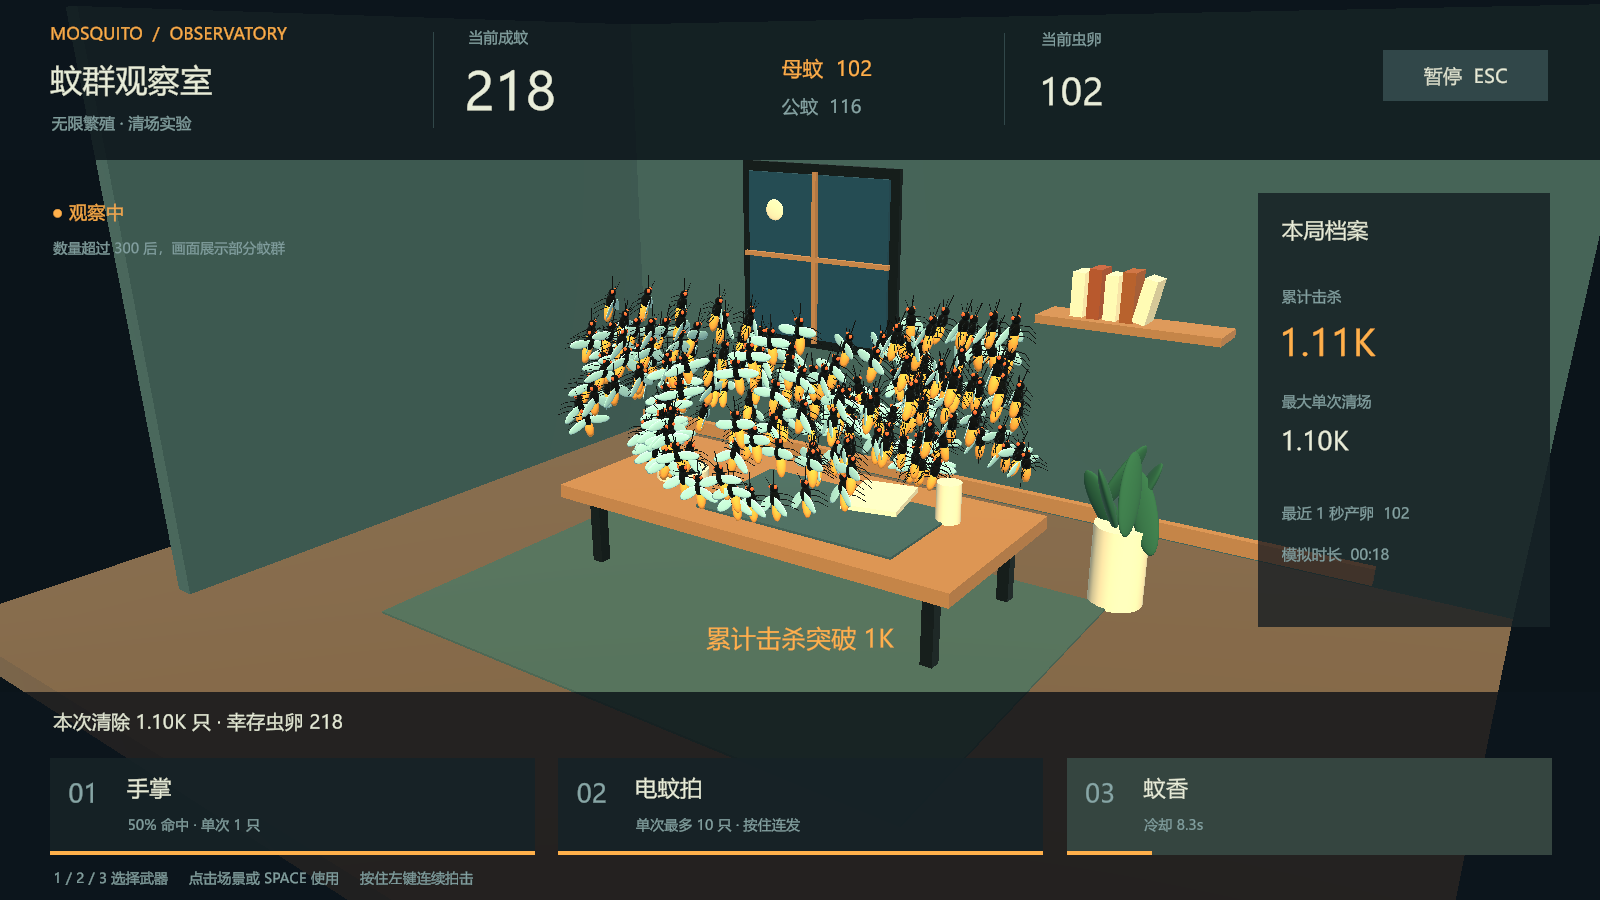
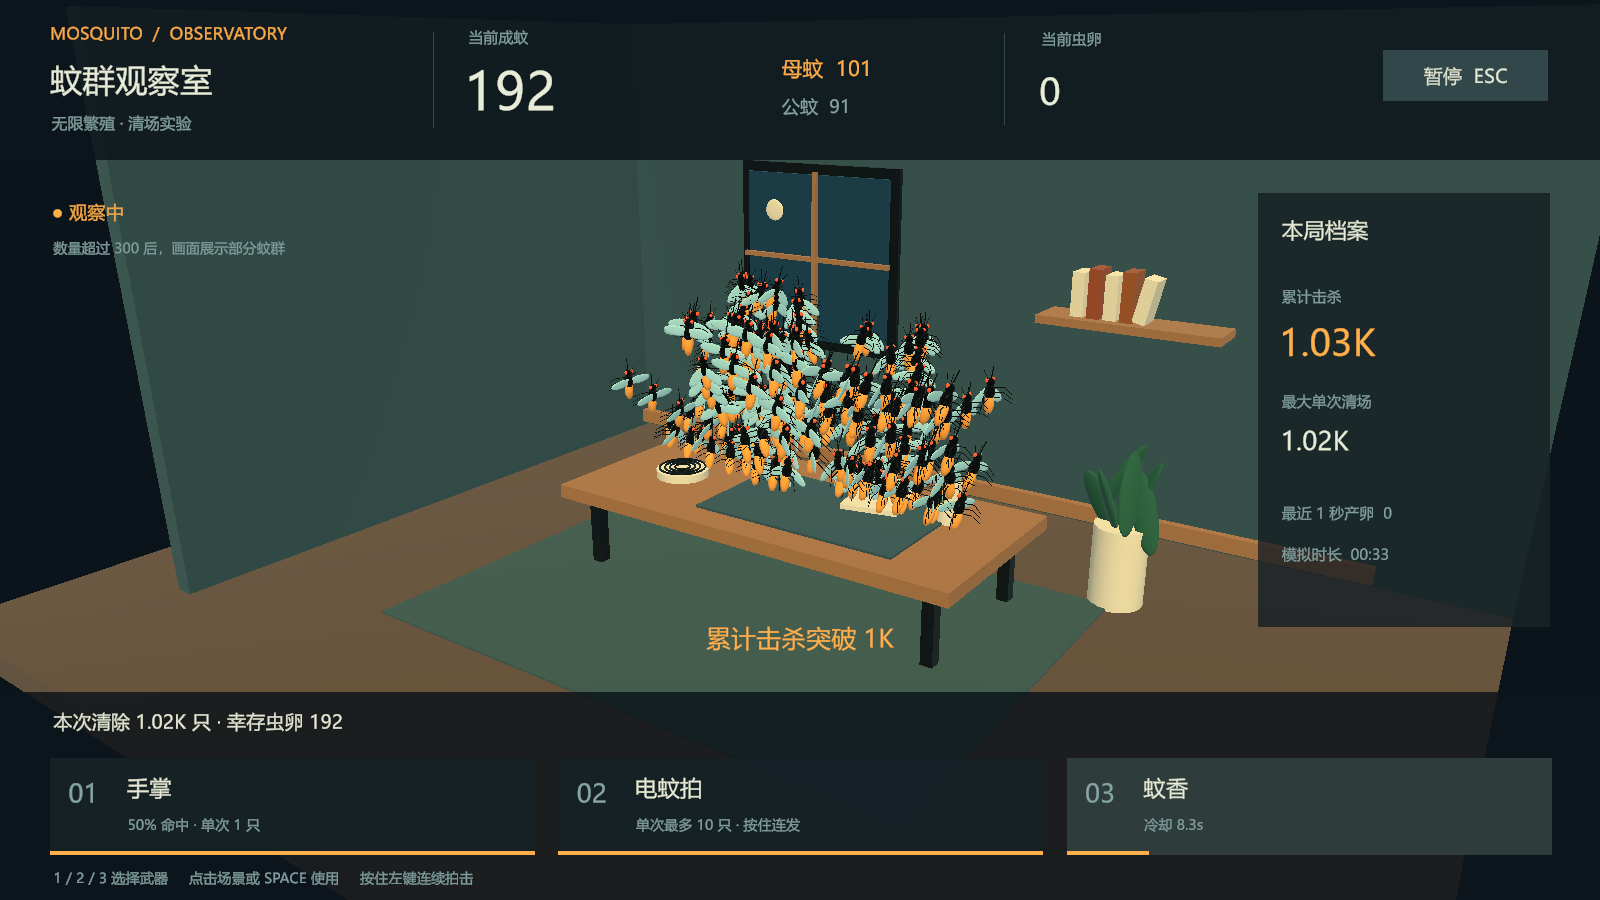
fix: slow mosquito reproduction and migrate saved timing

diff --git a/Assets/Game/Tests/EditMode/SimulationTests.cs b/Assets/Game/Tests/EditMode/SimulationTests.cs
@@ -26,15 +26,55 @@ namespace Mosquito.Tests
             return Simulation.Restore(snapshot);
         }
 
-        [Test] public void InitialMothersLayAtOneSecond_ThenEggsHatchAtOneAndHalf()
+        [Test] public void InitialMothersLayAtTwoSeconds_ThenEggsHatchAtThree()
         {
-            var game = new Simulation(seed: 7); Advance(game, 19);
+            var game = new Simulation(seed: 7); Advance(game, 39);
             Assert.That(game.Eggs, Is.EqualTo(BigInteger.Zero)); game.Step();
             Assert.That(game.Adults, Is.EqualTo(new BigInteger(4))); Assert.That(game.Eggs, Is.EqualTo(new BigInteger(2)));
-            Assert.That(game.EggBuckets.Keys.Single(), Is.EqualTo(30)); Advance(game, 10);
+            Assert.That(game.EggBuckets.Keys.Single(), Is.EqualTo(60)); Advance(game, 19);
+            Assert.That(game.Adults, Is.EqualTo(new BigInteger(4))); game.Step();
             Assert.That(game.Adults, Is.EqualTo(new BigInteger(6))); Assert.That(game.TotalHatched, Is.EqualTo(new BigInteger(2)));
-            Assert.That(game.FemaleBuckets.Keys.All(k => k == 40 || k == 50), Is.True);
+            Assert.That(game.FemaleBuckets.Keys.All(k => k == 80 || k == 100), Is.True);
         }
+        private static SimulationConfig LegacyConfig() => new SimulationConfig {
+            initialLayTicks = 20, layIntervalTicks = 20, firstLayTicks = 20, hatchTicks = 10, burstTicks = 10
+        };
+
+        [Test] public void SlowerGrowthMatchesOldPopulationAtTwiceTheElapsedTime()
+        {
+            var legacy = new Simulation(LegacyConfig(), seed: 73);
+            var slower = new Simulation(seed: 73);
+            Advance(legacy, 420); Advance(slower, 420);
+            Assert.That(slower.Adults, Is.LessThan(legacy.Adults));
+            Advance(slower, 420);
+            Assert.That(slower.Adults, Is.EqualTo(legacy.Adults));
+            Assert.That(slower.Eggs, Is.EqualTo(legacy.Eggs));
+        }
+
+        [TestCase(false)] [TestCase(true)]
+        public void LegacySaveMigrationPreservesPopulationRngAndCooldowns(bool duringRebound)
+        {
+            var original = new Simulation(LegacyConfig(), seed: 73); Advance(original, 420);
+            original.Step(duringRebound ? Weapon.Incense : Weapon.Hand);
+            var before = original.Capture();
+            var restored = Simulation.Restore(before);
+            Assert.That(restored.UpgradeReproductionPacing(), Is.True);
+            var after = restored.Capture();
+            Assert.That(after.male, Is.EqualTo(before.male));
+            Assert.That(after.randomState, Is.EqualTo(before.randomState));
+            Assert.That(after.readyAt, Is.EqualTo(before.readyAt));
+            Assert.That(after.totalKilled, Is.EqualTo(before.totalKilled));
+            Assert.That(after.females.Select(b => b.count), Is.EqualTo(before.females.Select(b => b.count)));
+            Assert.That(after.eggs.Select(b => b.count), Is.EqualTo(before.eggs.Select(b => b.count)));
+            Assert.That(after.females.Select(b => b.dueTick), Is.EqualTo(before.females.Select(b => before.tick + (b.dueTick - before.tick) * 2)));
+            Assert.That(after.eggs.Select(b => b.dueTick), Is.EqualTo(before.eggs.Select(b => before.tick + (b.dueTick - before.tick) * 2)));
+            if (duringRebound) Assert.That(after.burstEndTick, Is.EqualTo(before.tick + (before.burstEndTick - before.tick) * 2));
+            Assert.That(restored.UpgradeReproductionPacing(), Is.False);
+            Assert.That(JsonUtility.ToJson(restored.Capture()), Is.EqualTo(JsonUtility.ToJson(after)));
+            var roundTrip = Simulation.Restore(after); Advance(restored, 200); Advance(roundTrip, 200);
+            Assert.That(JsonUtility.ToJson(roundTrip.Capture()), Is.EqualTo(JsonUtility.ToJson(restored.Capture())));
+        }
+
         [Test] public void AttackBeforeDueLayCancelsMotherButPreservesExistingEggs()
         {
             var game = Fixture(0, 1, 3, eggDelay: 10, layDelay: 1); var before = game.EggsCreated;
@@ -71,7 +111,7 @@ namespace Mosquito.Tests
             Assert.That(game.EggBuckets.Keys.Single(), Is.EqualTo(due)); Assert.That(game.FemaleBuckets, Is.Empty);
             Assert.That(game.RemainingCooldown(Weapon.Incense), Is.EqualTo(200)); Advance(game, 5);
             Assert.That(game.Adults, Is.EqualTo(new BigInteger(30))); Assert.That(game.BurstHatched, Is.EqualTo(new BigInteger(30)));
-            Advance(game, 5); Assert.That(game.Phase, Is.EqualTo(RunPhase.Running));
+            Advance(game, 15); Assert.That(game.Phase, Is.EqualTo(RunPhase.Running));
         }
         [Test] public void SameTickIncenseDoesNotKillNewborns()
         {
@@ -101,7 +141,7 @@ namespace Mosquito.Tests
         }
         [Test] public void UnlocksPersistAfterPopulationFallsButResetOnNewRun()
         {
-            var game = new Simulation(seed: 73); Advance(game, 420);
+            var game = new Simulation(seed: 73); Advance(game, 840);
             Assert.That(game.IsUnlocked(Weapon.Incense), Is.True); game.Step(Weapon.Incense);
             Assert.That(game.IsUnlocked(Weapon.Incense), Is.True); Assert.That(new Simulation().UnlockFlags, Is.Zero);
         }
@@ -143,7 +183,7 @@ namespace Mosquito.Tests
             for (int i = 0; i < 6000 && game.Phase != RunPhase.ReproductionEnded; i++)
             {
                 game.Step(i % 221 == 0 ? Weapon.Incense : i % 17 == 0 ? Weapon.Zapper : (Weapon?)null); game.Validate();
-                Assert.That(game.FemaleBuckets.Count, Is.LessThanOrEqualTo(20)); Assert.That(game.EggBuckets.Count, Is.LessThanOrEqualTo(10));
+                Assert.That(game.FemaleBuckets.Count, Is.LessThanOrEqualTo(game.Config.layIntervalTicks)); Assert.That(game.EggBuckets.Count, Is.LessThanOrEqualTo(game.Config.hatchTicks));
             }
         }
         [Test] public void InvalidConservationAndExpiredBucketsAreRejected()

diff --git a/Assets/Game/Scripts/Core/Simulation.cs b/Assets/Game/Scripts/Core/Simulation.cs
@@ -69,6 +69,22 @@ namespace Mosquito.Core
             for (int i = 0; i < 20; i++) recentLays.Enqueue(BigInteger.Zero);
         }
 
+        public bool UpgradeReproductionPacing()
+        {
+            if (Config.layIntervalTicks != 20) return false;
+            // Preserve progress through each pending interval; do not hatch or lay on migration.
+            var mothers = females.Select(p => new KeyValuePair<long, BigInteger>(checked(Tick + (p.Key - Tick) * 2), p.Value)).ToArray();
+            var pendingEggs = eggs.Select(p => new KeyValuePair<long, BigInteger>(checked(Tick + (p.Key - Tick) * 2), p.Value)).ToArray();
+            long burstEnd = Phase == RunPhase.HatchAfterClear ? checked(Tick + (BurstEndTick - Tick) * 2) : BurstEndTick;
+            females.Clear(); foreach (var bucket in mothers) females.Add(bucket.Key, bucket.Value);
+            eggs.Clear(); foreach (var bucket in pendingEggs) eggs.Add(bucket.Key, bucket.Value);
+            Config.initialLayTicks = Config.layIntervalTicks = Config.firstLayTicks = 40;
+            Config.hatchTicks = Config.burstTicks = 20;
+            BurstEndTick = burstEnd;
+            Validate();
+            return true;
+        }
+
         public bool IsUnlocked(Weapon weapon) => (UnlockFlags & (1 << (int)weapon)) != 0;
         public long RemainingCooldown(Weapon weapon) => Math.Max(0, readyAt[(int)weapon] - Tick);
         public bool CanUse(Weapon weapon) => Phase != RunPhase.ReproductionEnded && Adults > 0 &&
@@ -205,8 +221,8 @@ namespace Mosquito.Core
                 Female != 2 + FemaleBorn - FemaleKilled ||
                 Male != 2 + (TotalHatched - FemaleBorn) - (TotalKilled - FemaleKilled))
                 throw new InvalidOperationException("Population conservation failed.");
-            foreach (var b in females) if (b.Key <= Tick || b.Key > Tick + 20 || b.Value <= 0) throw new InvalidOperationException("Invalid female deadline.");
-            foreach (var b in eggs) if (b.Key <= Tick || b.Key > Tick + 10 || b.Value <= 0) throw new InvalidOperationException("Invalid egg deadline.");
+            foreach (var b in females) if (b.Key <= Tick || b.Key > Tick + Config.layIntervalTicks || b.Value <= 0) throw new InvalidOperationException("Invalid female deadline.");
+            foreach (var b in eggs) if (b.Key <= Tick || b.Key > Tick + Config.hatchTicks || b.Value <= 0) throw new InvalidOperationException("Invalid egg deadline.");
             if (!Enum.IsDefined(typeof(RunPhase), Phase) || Tick < 0 || eventSequence < 0 ||
                 (Phase == RunPhase.ReproductionEnded) != (Female == 0 && Eggs == 0) ||
                 HandAttempts < 0 || HandHits < 0 || HandHits > HandAttempts || ZapperUses < 0 || IncenseUses < 0 ||
@@ -244,7 +260,7 @@ namespace Mosquito.Core
         {
             if (saved == null || saved.simulationVersion != 1 || saved.config == null ||
                 saved.readyAt == null || saved.readyAt.Length != 3 || saved.recentLays == null || saved.recentLays.Length != 20 ||
-                saved.females == null || saved.eggs == null || string.IsNullOrEmpty(saved.runId) || saved.females.Count > 20 || saved.eggs.Count > 10)
+                saved.females == null || saved.eggs == null || string.IsNullOrEmpty(saved.runId) || saved.females.Count > saved.config.layIntervalTicks || saved.eggs.Count > saved.config.hatchTicks)
                 throw new ArgumentException("Unsupported or incomplete save.");
             var game = new Simulation(saved.config, ulong.Parse(saved.initialSeed, NumberStyles.HexNumber));
             ulong rng = ulong.Parse(saved.randomState, NumberStyles.HexNumber);

diff --git a/Assets/Game/Scripts/Runtime/GameController.cs b/Assets/Game/Scripts/Runtime/GameController.cs
@@ -128,7 +128,7 @@ namespace Mosquito.Runtime
             Game = new Simulation(settings == null ? null : settings.simulation, unchecked((ulong)DateTime.UtcNow.Ticks));
             Selected = Weapon.Hand; PendingTicks = 0; remainder = 0; lastMilestone = 0;
             InMenu = Paused = Recovering = SettingsOpen = false; queuedCommand = null; holdArmed = false;
-            room.ResetVisuals(); Status = "母蚊每秒产卵，虫卵半秒后孵化。"; lastRealTime = Time.realtimeSinceStartupAsDouble;
+            room.ResetVisuals(); Status = "母蚊每 2 秒产卵，虫卵 1 秒后孵化。"; lastRealTime = Time.realtimeSinceStartupAsDouble;
             Save();
         }
         public void ContinueRun()
@@ -136,11 +136,14 @@ namespace Mosquito.Runtime
             if (!CanContinue) return;
             try
             {
-                Game = Simulation.Restore(Profile.run); PendingTicks = Profile.pendingCatchupTicks;
+                Game = Simulation.Restore(Profile.run);
+                bool pacingUpdated = Game.UpgradeReproductionPacing();
+                PendingTicks = Profile.pendingCatchupTicks;
                 Selected = (Weapon)Profile.selectedWeapon; remainder = 0;
                 InMenu = Paused = SettingsOpen = false; Recovering = PendingTicks > 0;
                 holdArmed = false; queuedCommand = null; room.ResetVisuals();
                 Status = Recovering ? "正在恢复已积欠的进度…" : "已恢复存档；离线期间没有繁殖。";
+                if (pacingUpdated) { Status += " 繁殖速度已调慢。"; Save(); }
             }
             catch (Exception e) { Status = "无法恢复此存档：" + e.Message; }
         }

diff --git a/Assets/Game/Scripts/Core/SimulationConfig.cs b/Assets/Game/Scripts/Core/SimulationConfig.cs
@@ -11,8 +11,8 @@ namespace Mosquito.Core
     {
         public int tickMs = 50;
         public int startMale = 2, startFemale = 2;
-        public int initialLayTicks = 20, layIntervalTicks = 20, firstLayTicks = 20;
-        public int hatchTicks = 10, burstTicks = 10, smallBatchLimit = 1024;
+        public int initialLayTicks = 40, layIntervalTicks = 40, firstLayTicks = 40;
+        public int hatchTicks = 20, burstTicks = 20, smallBatchLimit = 1024;
         public int handUnlock = 10, zapperUnlock = 100, incenseUnlock = 1000;
         public int handCooldown = 6, zapperCooldown = 16, incenseCooldown = 200;
         public int zapperKills = 10;
@@ -23,9 +23,10 @@ namespace Mosquito.Core
 
         public void Validate()
         {
+            bool legacyPacing = initialLayTicks == 20 && layIntervalTicks == 20 && firstLayTicks == 20 && hatchTicks == 10 && burstTicks == 10;
+            bool currentPacing = initialLayTicks == 40 && layIntervalTicks == 40 && firstLayTicks == 40 && hatchTicks == 20 && burstTicks == 20;
             if (tickMs != 50 || startMale != 2 || startFemale != 2 ||
-                initialLayTicks != 20 || layIntervalTicks != 20 || firstLayTicks != 20 ||
-                hatchTicks != 10 || burstTicks != 10 || smallBatchLimit != 1024 ||
+                !(legacyPacing || currentPacing) || smallBatchLimit != 1024 ||
                 handUnlock != 10 || zapperUnlock <= handUnlock || incenseUnlock <= zapperUnlock ||
                 handCooldown < 1 || zapperCooldown < 1 || incenseCooldown < 1 || zapperKills != 10)
                 throw new ArgumentException("Configuration is incompatible with simulation version 1.");

diff --git a/Docs/DevelopmentStatus.md b/Docs/DevelopmentStatus.md
@@ -1,4 +1,4 @@
-# 开发进度 · 0.1.0 原型
+# 开发进度 · 0.1.1 原型
 
 日期：2026-09-20。基于 GDD v1.1，当前推进 M0–M2，并提前接入部分存档和设置能力。
 
@@ -6,7 +6,7 @@
 
 - Unity 6.3 LTS 工程、URP、Input System、固定镜头场景及命令行构建入口。
 - 50ms 固定 Tick；母蚊与虫卵分别使用排序时间桶；成蚊、虫卵和统计使用 BigInteger。
-- 初始四只、1 秒产卵、半秒孵化、出生满 1 秒首产、小批量随机 / 大批量各半性别分配。
+- 初始四只、2 秒产卵、1 秒孵化、出生满 2 秒首产、小批量随机 / 大批量各半性别分配。按试玩反馈将繁殖周期延长一倍；旧存档继续时迁移剩余时间，不改变现有数量和武器冷却。
 - 手掌、电拍和蚊香；独立冷却、本局峰值解锁、全局均匀击杀。
 - 清场保留虫卵 deadline，同 Tick 先攻击后产卵和孵化，繁殖终止结算。
 - 主菜单、HUD、武器选择、按住攻击、暂停、失焦处理、设置与本地纪录。
@@ -17,11 +17,12 @@
 ## 已取得的验证结果
 
 - Unity 工程初始化与 C# 编译成功。
-- EditMode 自动测试 **28 / 28 通过**，包含 10^300 数量精度、孵化时序、随机恢复和损坏存档备份。
+- EditMode 自动测试 **31 / 31 通过**，包含 10^300 数量精度、孵化时序、随机恢复和损坏存档备份，以及减速后的增长曲线、普通旧存档和清场回弹中存档的迁移。
 - 原始测试报告保存在本地 `TestResults/editmode.xml`，详细日志在 `Logs/tests.log`。
 - Windows x64 独立程序构建成功，构建日志和摘要位于 `Logs/Build.log`、`TestResults/build-summary.txt`。
 - Windows 实际运行验证通过：自然增长解锁三把武器，分别执行手掌、电拍、蚊香；暂停期间 Tick 不变；保存与恢复快照一致。
[1 lines of base64/hex data omitted]
+- 0.1.1 减速版本已重新构建并通过上述实际运行验证，已生成 `MosquitoObservatory-Setup-0.1.1-Windows-x64.exe`；沿用已验证的安装流程，此次未重复执行安装卸载测试。
[1 lines of base64/hex data omitted]
 - 实际运行记录：[runtime-smoke.json](./Preview/runtime-smoke.json)。该验证通过正常命令入口执行攻击，不等同于已经测试所有物理键鼠组合。
 - 已检查 [实际游戏画面](./Preview/gameplay.png)：中文 HUD、固定镜头房间、Blender 蚊子模型与三个武器状态均可显示。隐藏窗口采用显式 URP 渲染目标捕获，避免读取空白交换链。
 - 当前机器上的一次 Tick 耗时只是运行记录，不作为 GDD 规定的 P95、60 FPS 或 30 分钟稳定性结论。

diff --git a/README.md b/README.md
@@ -4,6 +4,8 @@
 
 当前开发基于 [GDD v1.1](./蚊子游戏模拟器_游戏策划文档_GDD_v1.1_PC_Unity_Blender.md)。这是正在开发的原型，不代表 GDD 全部美术、性能和试玩目标已经验收。
 
+0.1.1 根据试玩反馈将繁殖周期延长一倍：母蚊每 2 秒产卵，虫卵 1 秒孵化，新生母蚊 2 秒后首次产卵。武器冷却不变。继续旧存档会将尚未完成的产卵、孵化和清场回弹剩余时间延长一倍，保留已有数量、纪录与武器冷却；此调整优先于 GDD v1.1 中的初始节奏数值。
+
 ![Windows 原型实际画面](./Docs/Preview/gameplay.png)
 
 ## 工具版本
@@ -30,7 +32,7 @@
 
 发给其他电脑时，运行 `.\Tools\Package.ps1`，发送生成在 `Builds/Releases` 中的完整 ZIP。接收方先右键“全部解压缩”，再运行文件夹里的 exe，无需安装 Unity 或 Blender。打包脚本包含 `UnityPlayer.dll`、游戏数据和 Mono 运行库，并排除开发调试目录。如果提示缺少 `UnityPlayer.dll`，先检查是否只复制了 exe 或没有完整解压。
 
-也可生成双击安装的单个 exe：安装 [Inno Setup](https://jrsoftware.org/isdl.php) 6.7.3 或更新版本后，运行 `.\Tools\Installer.ps1`（自定义位置使用 `-CompilerPath`）。输出为 `Builds/Releases/MosquitoObservatory-Setup-0.1.0-Windows-x64.exe`，包含完整游戏运行文件。安装向导支持中文、选择安装目录、桌面和开始菜单快捷方式，以及 Windows 应用列表卸载。默认安装到当前用户的 `%LOCALAPPDATA%\Programs\MosquitoObservatory`，无需管理员权限；卸载保留游戏存档。后续版本保持安装脚本中的 AppId 不变并更新 GameVersion，以覆盖升级同一安装。
+也可生成双击安装的单个 exe：安装 [Inno Setup](https://jrsoftware.org/isdl.php) 6.7.3 或更新版本后，运行 `.\Tools\Installer.ps1`（自定义位置使用 `-CompilerPath`）。输出为 `Builds/Releases/MosquitoObservatory-Setup-0.1.1-Windows-x64.exe`，包含完整游戏运行文件。安装向导支持中文、选择安装目录、桌面和开始菜单快捷方式，以及 Windows 应用列表卸载。默认安装到当前用户的 `%LOCALAPPDATA%\Programs\MosquitoObservatory`，无需管理员权限；卸载保留游戏存档。后续版本保持安装脚本中的 AppId 不变并更新 GameVersion，以覆盖升级同一安装。
 
 ## 操作
 
